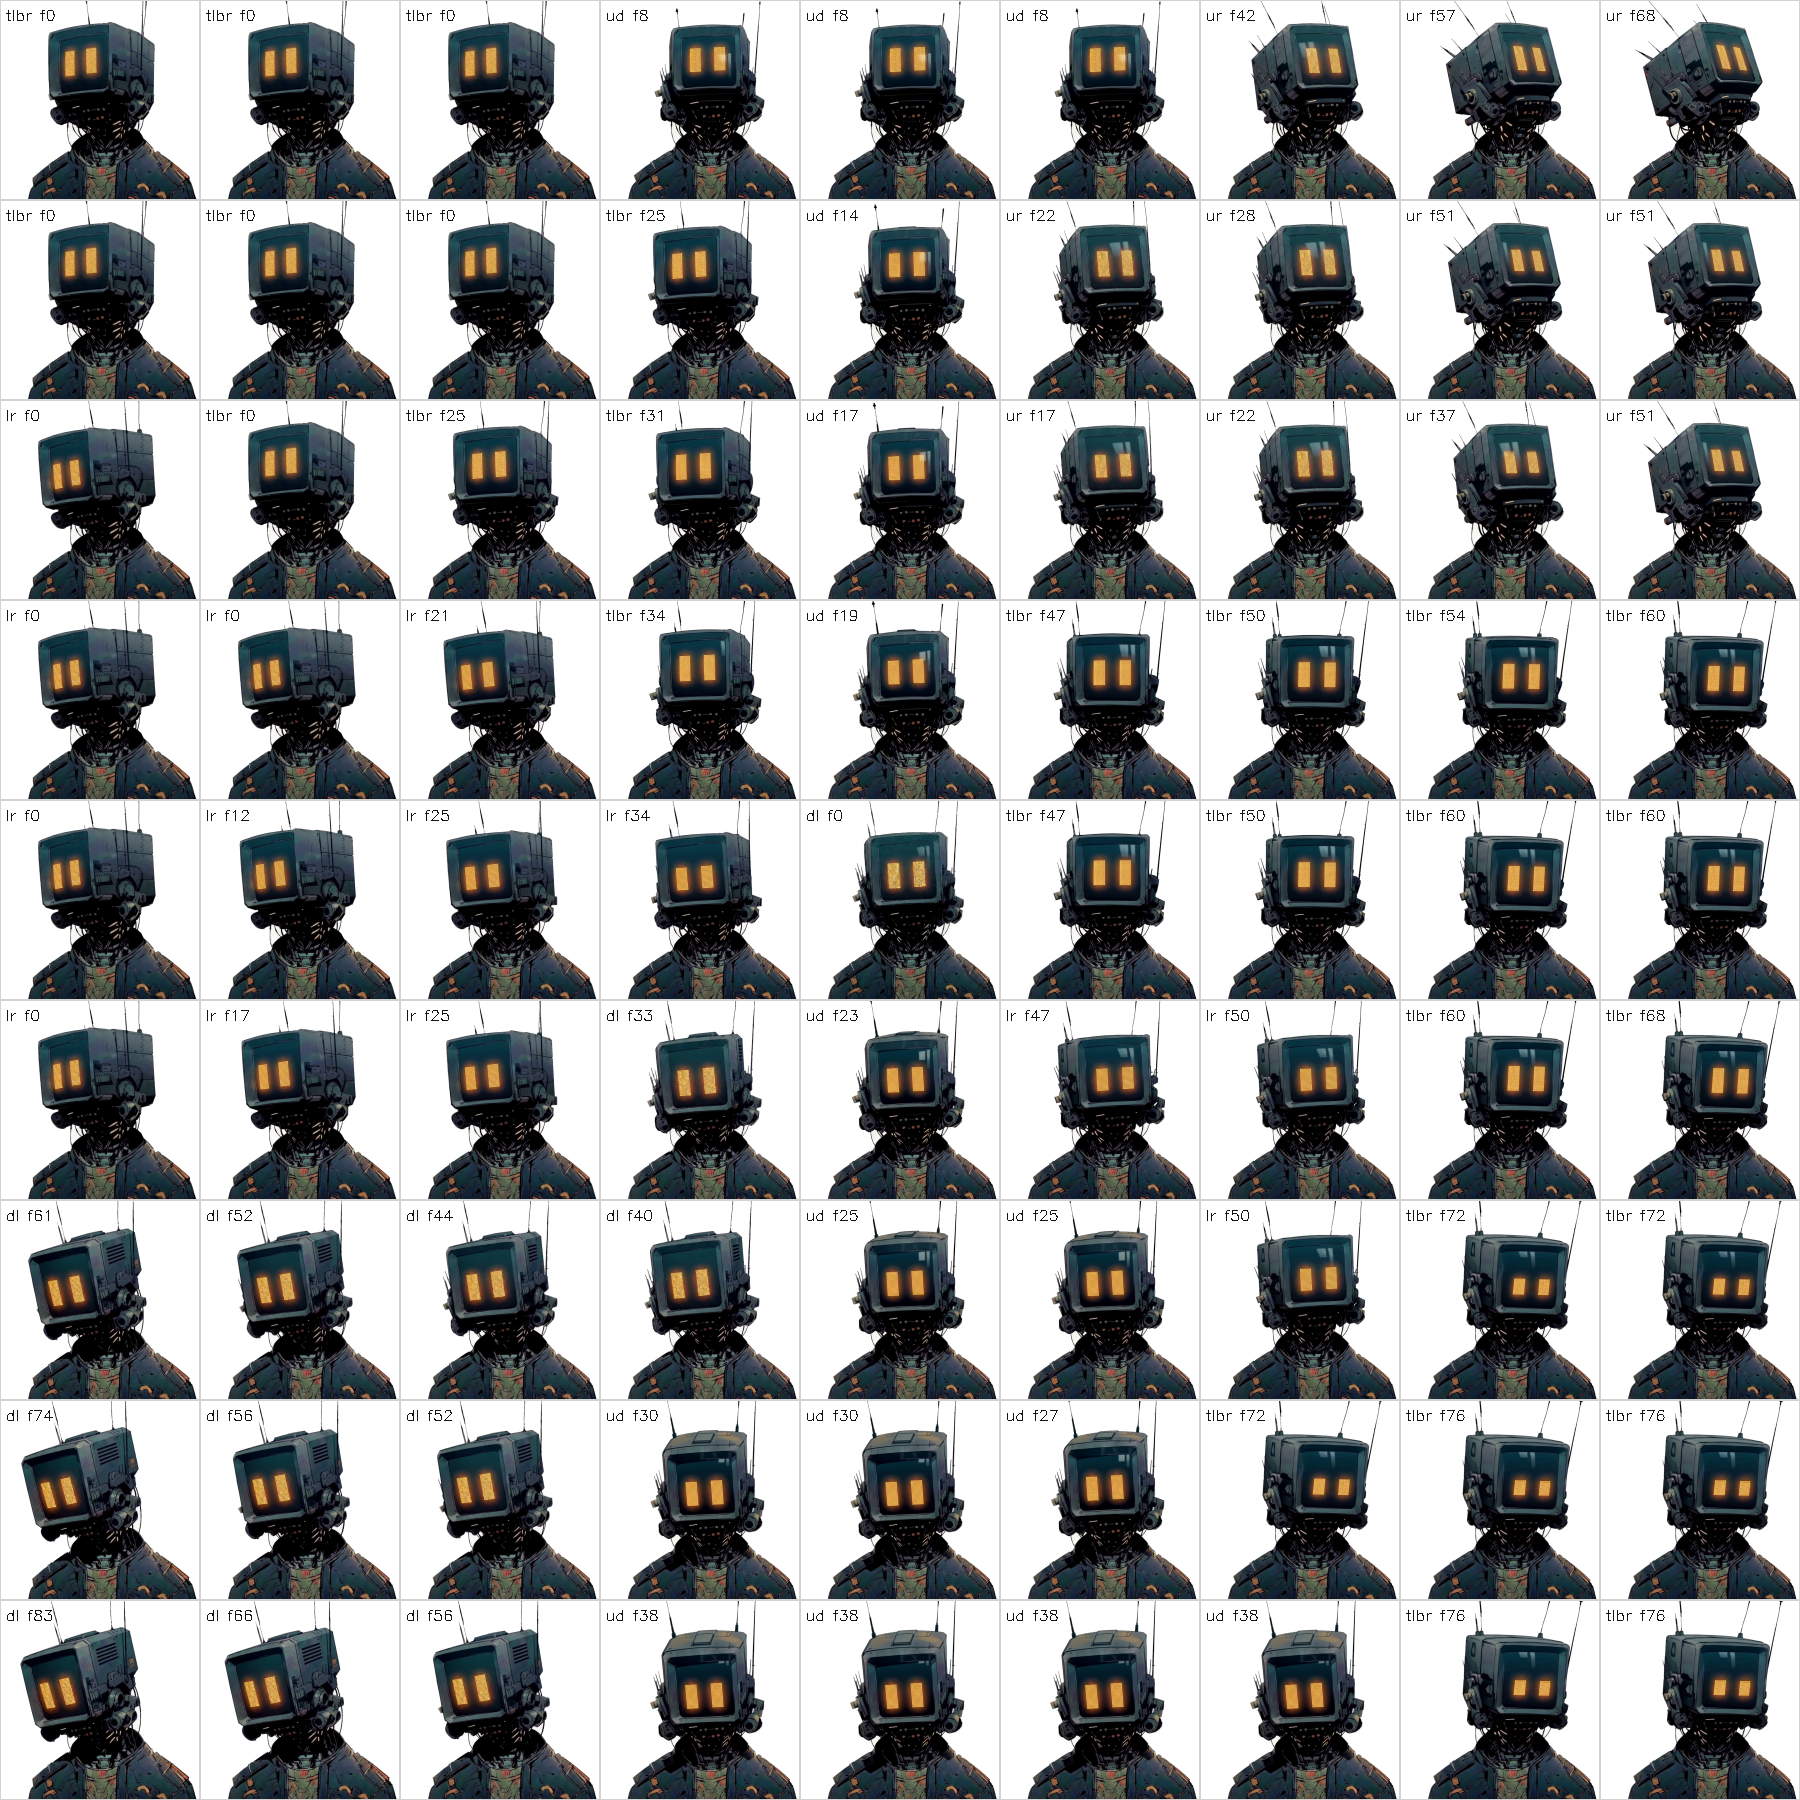
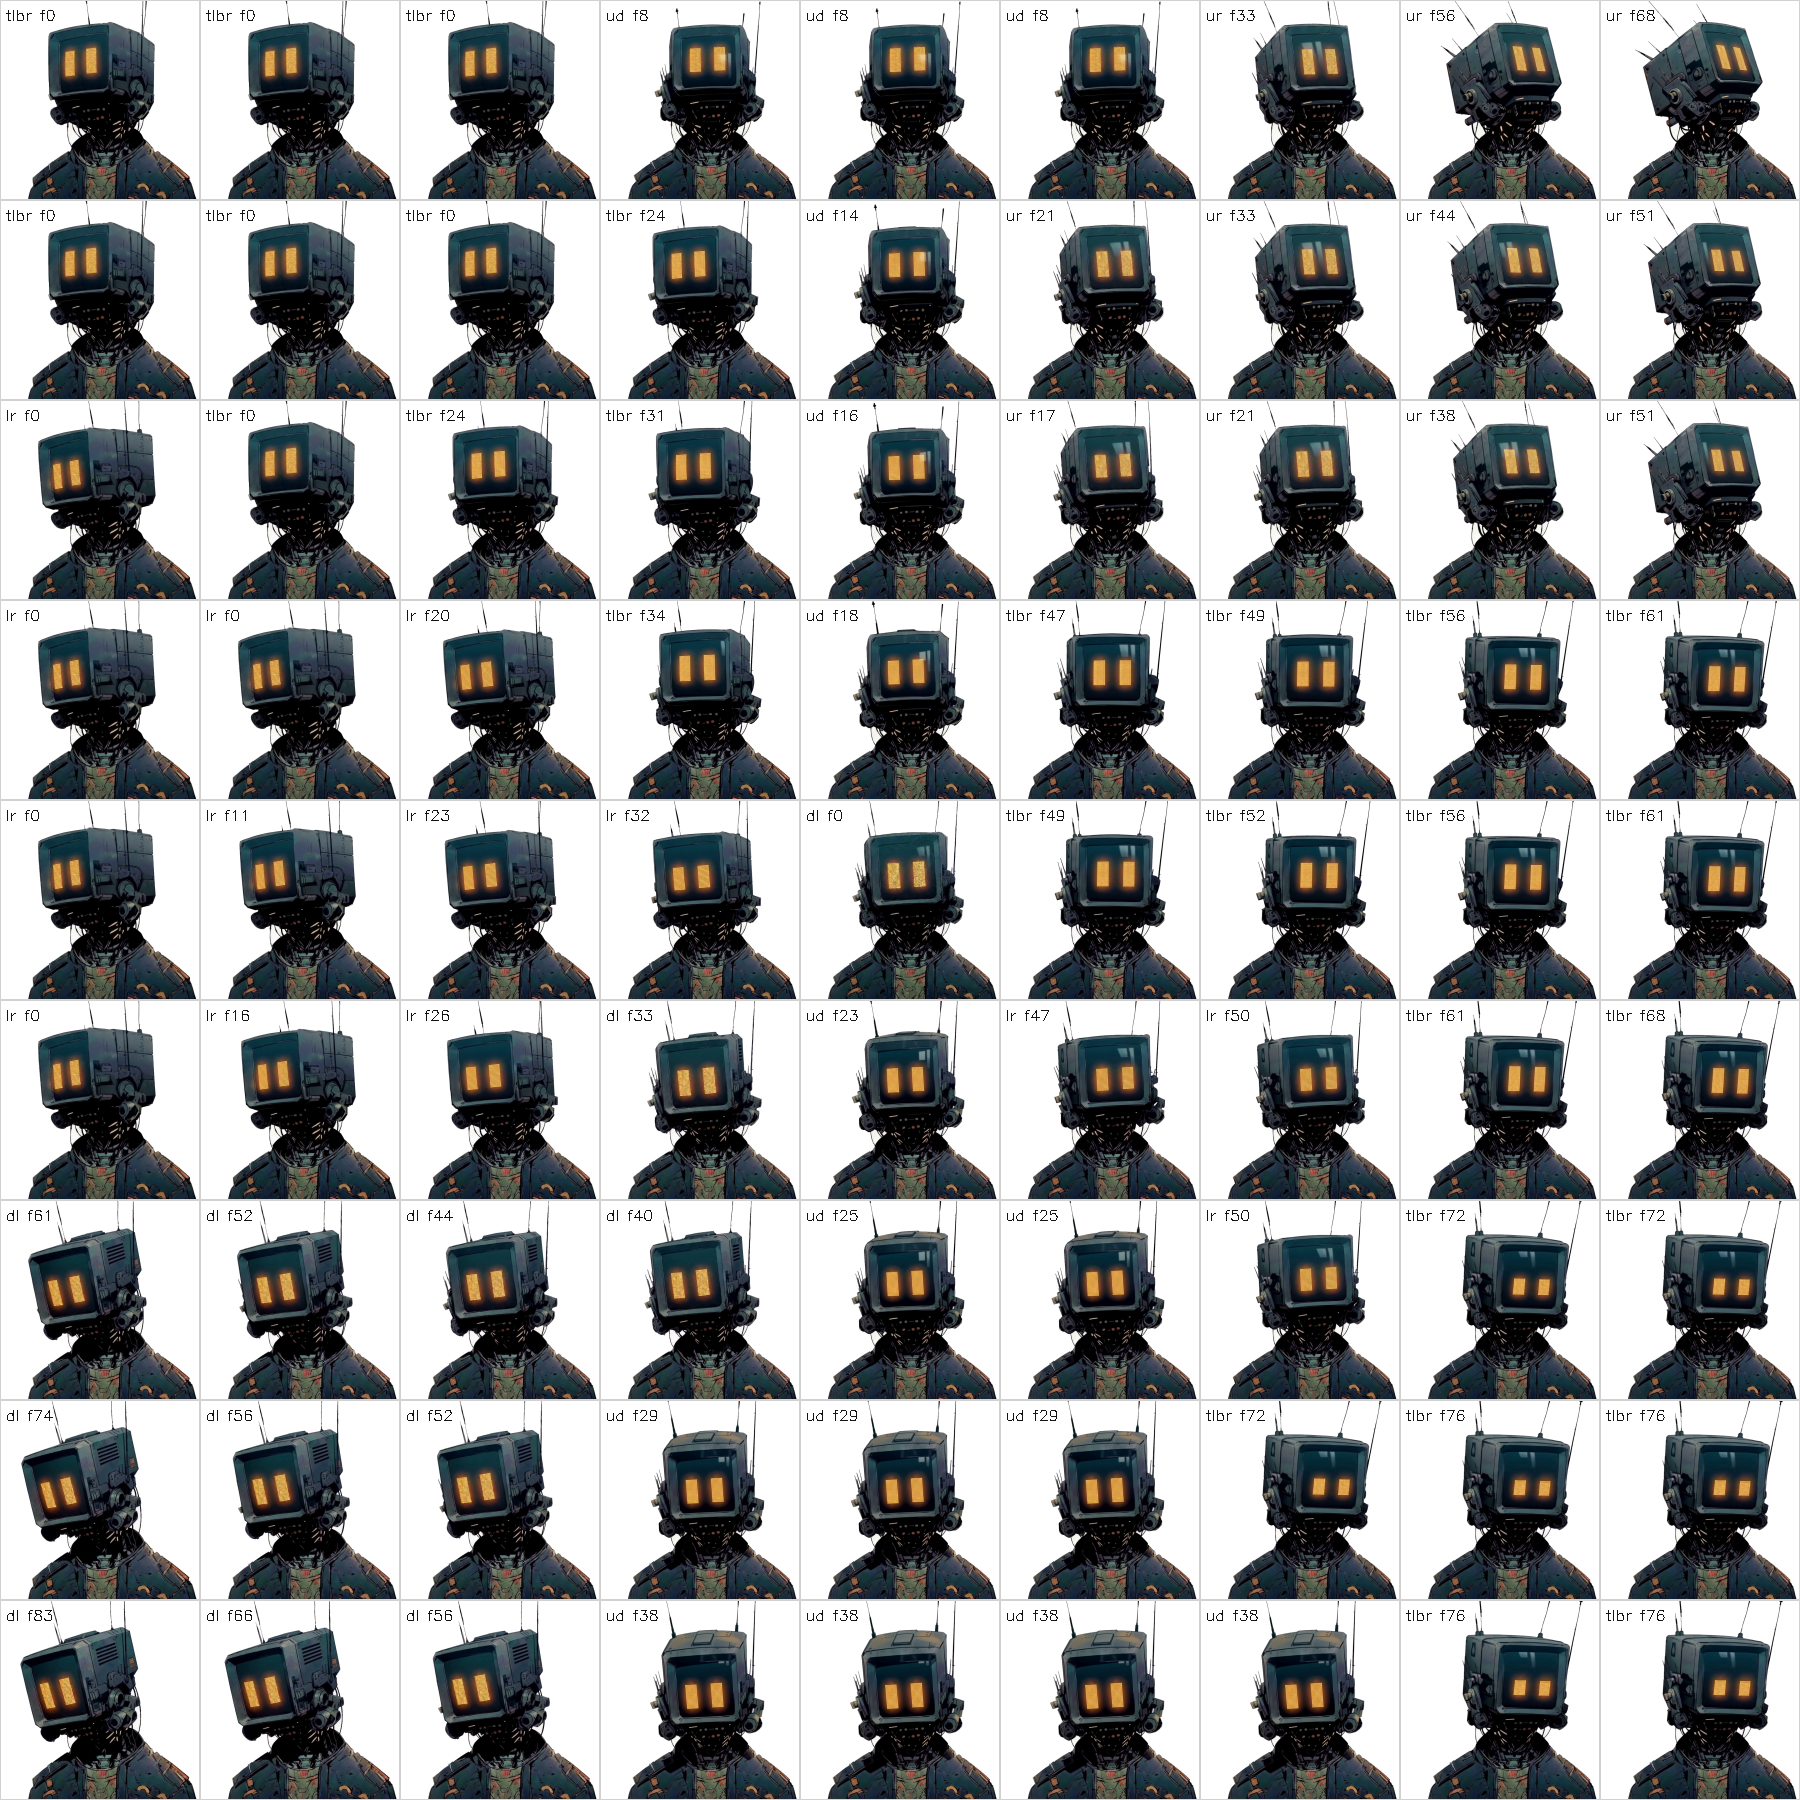
feat: cross-dissolve gaze rendering + denser atlas (v7)
Discrete frame stepping was the last source of perceived chop: no
matter how dense the atlas, hard cuts between poses read as flip-book.
The renderer now keeps a CONTINUOUS scrub position along the travel
path and draws two stacked atlas layers, blending the next pose over
the current one with a smoothstepped opacity ramp - every step plays
as a short cross-dissolve that reads as in-between motion. Travel
speed eases with remaining distance (12-55 nodes/sec), and mid-travel
reroutes play the active dissolve backwards instead of cutting.

Atlas densified 64 -> 70 nodes (same 9x9 sheet, new v7 filename since
the preview deployed v6 into browser caches). Review sheet renamed
version-agnostic (atlas-contact.png).

Verified live: during slow circles the fade layer is mid-blend 55% of
frames, every observed layer pair is graph-adjacent (zero violations
across 920 instrumented frames including corner teleports), and a
mid-dissolve screenshot shows a clean blend with no ghosting.

diff --git a/src/components/site/HeroGaze.tsx b/src/components/site/HeroGaze.tsx
@@ -4,36 +4,31 @@ import { useEffect, useRef } from "react";
 import MAP from "./heroGazeMap.json";
 
 /**
- * Cursor-following robot v6 — 2D star-graph tracking over five clips.
+ * Cursor-following robot v7 — star-graph tracking with cross-dissolve.
  *
- * Five direction videos (design/assets/robot video/directions/), all
- * generated from one shared reference still, form an 8-spoke star in gaze
- * space: level left-right, vertical up-down, the up-left -> down-right
- * diagonal, and center -> up-right / center -> down-left half-spokes. Node
- * 0 is the canonical center pose (the reference). The cursor targets the
- * node whose measured eye-gaze is nearest in (x, y) and the robot travels
- * there along the graph via a precomputed next-hop matrix — chain edges
- * are a few video frames apart, hub edges join each clip to center at its
- * measured center-crossing (all pixel-verified at build time). Spoke-to-
- * spoke travel passes through center, which reads as the robot naturally
- * re-orienting its head.
+ * Pose data (see scripts/build-gaze-atlas.py): five direction clips form an
+ * 8-spoke star in gaze space; node 0 is the canonical center pose; chains
+ * join the hub at pixel-verified center-crossings; a next-hop matrix routes
+ * travel so consecutive poses are always graph-adjacent.
  *
- * heroGazeMap.json (built by scripts/build-gaze-atlas.py):
- *   cols/rows  atlas grid dimensions
- *   nodes      gaze (x, y) per node, piecewise-normalized around the
- *              center pose so cursor (0.5, 0.5) = center exactly
- *   targetable node indices the argmin may select
- *   next       next-hop matrix (next[i][i] = i)
- *   rest       the center node: initial paint, reduced-motion, scrolled-away
- *   squint     proximity-override node, or -1 when the clips provide none
+ * Rendering: TWO stacked layers of the same atlas. The scrub position along
+ * the travel path is CONTINUOUS — (from, to, frac) — and the top layer's
+ * opacity is frac, so every step between adjacent poses plays as a short
+ * cross-dissolve instead of a hard cut. Discrete stepping was the last
+ * source of perceived chop: no matter how dense the atlas, hard cuts read
+ * as flip-book; the dissolve reads as in-between motion. Travel speed eases
+ * with remaining distance (fast when far, gentle on arrival).
  *
- * Hysteresis tuning comes from the v5 design-review simulations: an
- * absolute epsilon plus a minimum switch interval stops cursor jitter from
- * churning the target, and far-away candidates need a stricter (but not
- * paranoid — the star has no fake seams) gate against boundary flapping.
+ * heroGazeMap.json: cols/rows (atlas grid), nodes (gaze per node,
+ * piecewise-normalized around center so cursor (0.5, 0.5) = center pose),
+ * targetable, next (next[i][i] = i), rest, squint (-1 = no squint pose).
+ *
+ * Hysteresis tuning from the v5 design-review simulations: absolute
+ * epsilon + minimum switch dwell stop cursor jitter from churning the
+ * target; far candidates need a clearer margin against sector flapping.
  */
 
-const ATLAS = "/hero/robot-atlas-v6.webp";
+const ATLAS = "/hero/robot-atlas-v7.webp";
 const COLS: number = MAP.cols;
 const ROWS: number = MAP.rows;
 const N: number = MAP.n;
@@ -51,12 +46,15 @@ const HYST_EPS = 1.5e-4;
 const MIN_SWITCH_TICKS = 8; // 133ms dwell between retargets
 const FAR_HOPS = 6;
 const FAR_RATIO = 0.7; // far targets must be clearly better (sector jitter)
-const SPEED_BUDGET = 2; // per tick: two chain hops OR one shortcut hop
-const SQUINT_MARGIN = 48;
+// travel speed in nodes/sec: eases with remaining hops — snappy when far,
+// soft landing on arrival. 12..55 spans "one-node adjust" to "corner dash".
+const RATE_MIN = 12;
+const RATE_MAX = 55;
+const RATE_PER_HOP = 11;
 
 function pos(idx: number): string {
   // CSS background-position % resolves as (container - image) * p: with the
-  // image 8x the element, column c sits at c/(COLS-1) — the -1 is load-bearing.
+  // image COLS x the element, column c sits at c/(COLS-1) — the -1 matters.
   const i = Math.min(Math.max(idx | 0, 0), N - 1);
   const col = i % COLS;
   const row = Math.floor(i / COLS);
@@ -80,12 +78,29 @@ function hopDist(a: number, b: number): number {
   return d;
 }
 
+// The wrapper is positioned by its CSS-module class (Hero.module.css
+// .robot) — no position/inset here or the inline style would override it.
+const baseStyle: React.CSSProperties = {
+  backgroundImage: `url(${ATLAS})`,
+  backgroundSize: `${COLS * 100}% ${ROWS * 100}%`,
+  backgroundPosition: pos(REST_IDX),
+  backgroundRepeat: "no-repeat",
+};
+const fadeStyle: React.CSSProperties = {
+  ...baseStyle,
+  position: "absolute",
+  inset: 0,
+  opacity: 0,
+};
+
 export default function HeroGaze({ className }: { className?: string }) {
-  const ref = useRef<HTMLDivElement>(null);
+  const baseRef = useRef<HTMLDivElement>(null);
+  const fadeRef = useRef<HTMLDivElement>(null);
 
   useEffect(() => {
-    const el = ref.current;
-    if (!el) return;
+    const base = baseRef.current;
+    const fade = fadeRef.current;
+    if (!base || !fade) return;
     if (window.matchMedia("(prefers-reduced-motion: reduce)").matches) return;
 
     let alive = true;
@@ -94,21 +109,26 @@ export default function HeroGaze({ className }: { className?: string }) {
     let sx = mx;
     let sy = my;
     let smooth = SMOOTH_MOUSE;
-    let cur = REST_IDX; // integer node id, end to end
+    // continuous scrub state: dissolving from -> to, frac in [0, 1)
+    let from = REST_IDX;
+    let to = REST_IDX;
+    let frac = 0;
     let target = REST_IDX;
     let tickN = 0;
     let lastSwitch = -MIN_SWITCH_TICKS;
-    let lastRendered = -1;
+    let lastTime = 0;
     let near = false;
     let rafId: number;
-    let rect = el.getBoundingClientRect();
+    let rect = base.getBoundingClientRect();
 
     const updateRect = () => {
-      rect = el.getBoundingClientRect();
+      rect = base.getBoundingClientRect();
     };
 
-    const tick = () => {
+    const tick = (now: number) => {
       if (!alive) return;
+      const dt = lastTime ? Math.min((now - lastTime) / 1000, 0.05) : 1 / 60;
+      lastTime = now;
       tickN++;
       sx += (mx - sx) * smooth;
       sy += (my - sy) * smooth;
@@ -149,20 +169,45 @@ export default function HeroGaze({ className }: { className?: string }) {
         }
       }
 
-      // travel: chain hop costs 1, shortcut hop costs the whole budget so a
-      // rendered transition is always a single vetted edge or two chain frames
-      let budget = SPEED_BUDGET;
-      while (budget > 0 && cur !== target) {
-        const step = NEXT[cur][target];
-        const isChain = Math.abs(step - cur) === 1;
-        if (!isChain && budget < SPEED_BUDGET) break;
-        cur = step;
-        budget -= isChain ? 1 : SPEED_BUDGET;
+      // travel: advance the continuous scrub along the next-hop path
+      if (to === from && target !== from) {
+        to = NEXT[from][target];
+        frac = 0;
+      } else if (to !== from && NEXT[from][target] !== to) {
+        // rerouted mid-dissolve: play the dissolve backwards to `from`,
+        // then pick the new direction — never a hard cut
+        const t = from;
+        from = to;
+        to = t;
+        frac = 1 - frac;
+      }
+      if (to !== from) {
+        const remaining = hopDist(from, target);
+        const rate = Math.min(
+          RATE_MAX,
+          Math.max(RATE_MIN, remaining * RATE_PER_HOP),
+        );
+        frac += rate * dt;
+        while (frac >= 1) {
+          frac -= 1;
+          from = to;
+          if (from === target) {
+            to = from;
+            frac = 0;
+            break;
+          }
+          to = NEXT[from][target];
+        }
       }
 
-      if (cur !== lastRendered) {
-        lastRendered = cur;
-        el.style.backgroundPosition = pos(cur);
+      base.style.backgroundPosition = pos(from);
+      if (to !== from) {
+        fade.style.backgroundPosition = pos(to);
+        // smoothstep the opacity ramp — softer than linear at the ends
+        const f = frac * frac * (3 - 2 * frac);
+        fade.style.opacity = String(f);
+      } else {
+        fade.style.opacity = "0";
       }
       rafId = requestAnimationFrame(tick);
     };
@@ -173,10 +218,10 @@ export default function HeroGaze({ className }: { className?: string }) {
       mx = Math.min(1, Math.max(0, e.clientX / window.innerWidth));
       my = Math.min(1, Math.max(0, e.clientY / window.innerHeight));
       near =
-        e.clientX > rect.left - SQUINT_MARGIN &&
-        e.clientX < rect.right + SQUINT_MARGIN &&
-        e.clientY > rect.top - SQUINT_MARGIN &&
-        e.clientY < rect.bottom + SQUINT_MARGIN;
+        e.clientX > rect.left - 48 &&
+        e.clientX < rect.right + 48 &&
+        e.clientY > rect.top - 48 &&
+        e.clientY < rect.bottom + 48;
     };
     const onTouch = (e: TouchEvent) => {
       const t = e.touches[0];
@@ -203,16 +248,8 @@ export default function HeroGaze({ className }: { className?: string }) {
   }, []);
 
   return (
-    <div
-      ref={ref}
-      className={className}
-      aria-hidden="true"
-      style={{
-        backgroundImage: `url(${ATLAS})`,
-        backgroundSize: `${COLS * 100}% ${ROWS * 100}%`,
-        backgroundPosition: pos(REST_IDX),
-        backgroundRepeat: "no-repeat",
-      }}
-    />
+    <div ref={baseRef} className={className} aria-hidden="true" style={baseStyle}>
+      <div ref={fadeRef} style={fadeStyle} />
+    </div>
   );
 }

diff --git a/src/components/site/Hero.tsx b/src/components/site/Hero.tsx
@@ -81,7 +81,7 @@ export default function Hero() {
   // Filename is versioned (v5): the atlas layout must match the bundled
   // heroGazeMap.json, so a new build ships under a new URL — never overwrite
   // a deployed atlas in place (browser cache serves stale cells).
-  preload("/hero/robot-atlas-v6.webp", { as: "image" });
+  preload("/hero/robot-atlas-v7.webp", { as: "image" });
 
   return (
     <section className={styles.hero}>

diff --git a/scripts/build-gaze-atlas.py b/scripts/build-gaze-atlas.py
@@ -47,18 +47,18 @@ from PIL import Image
 COLS = ROWS = 9
 CELL, INSET = 512, 8
 H = W = 960
-OUT_ATLAS = os.path.join("public", "hero", "robot-atlas-v6.webp")
+OUT_ATLAS = os.path.join("public", "hero", "robot-atlas-v7.webp")
 OUT_MAP = os.path.join("src", "components", "site", "heroGazeMap.json")
 REVIEW_DIR = os.path.join("design", "assets", "robot video", "directions")
 
 # clip -> (clean monotonic frame ranges [inclusive], node budget, forced
 # frames that must become nodes: chain ends + hub-join crossings)
 CLIPS = {
-    "lr":   {"ranges": [(0, 61)], "n": 18, "forced": [0, 42, 61]},
-    "ud":   {"ranges": [(8, 38)], "n": 13, "forced": [8, 21, 38]},
-    "tlbr": {"ranges": [(0, 25), (31, 39), (45, 76)], "n": 16,
+    "lr":   {"ranges": [(0, 61)], "n": 20, "forced": [0, 42, 61]},
+    "ud":   {"ranges": [(8, 38)], "n": 14, "forced": [8, 21, 38]},
+    "tlbr": {"ranges": [(0, 25), (31, 39), (45, 76)], "n": 18,
              "forced": [0, 39, 45, 76]},
-    "ur":   {"ranges": [(8, 13), (17, 33), (37, 46), (51, 68)], "n": 12,
+    "ur":   {"ranges": [(8, 13), (17, 33), (37, 46), (51, 68)], "n": 13,
              "forced": [8, 68]},
     "dl":   {"ranges": [(10, 15), (20, 36), (40, 56), (61, 83)], "n": 15,
              "forced": [10, 83]},
@@ -306,7 +306,7 @@ def main(scratch):
         cv2.rectangle(img, (0, 0), (csz - 1, csz - 1), (210, 210, 210), 1)
         r, c = i // COLS, i % COLS
         sheet[r * csz:(r + 1) * csz, c * csz:(c + 1) * csz] = img
-    cv2.imwrite(os.path.join(REVIEW_DIR, "atlas-v6-contact.png"), sheet)
+    cv2.imwrite(os.path.join(REVIEW_DIR, "atlas-contact.png"), sheet)
 
     # (b) Andrew's spatial 9x9 gaze map: cell (r, c) = the pose shown when
     # the cursor sits at that screen cell (nearest node, same cost as runtime)
